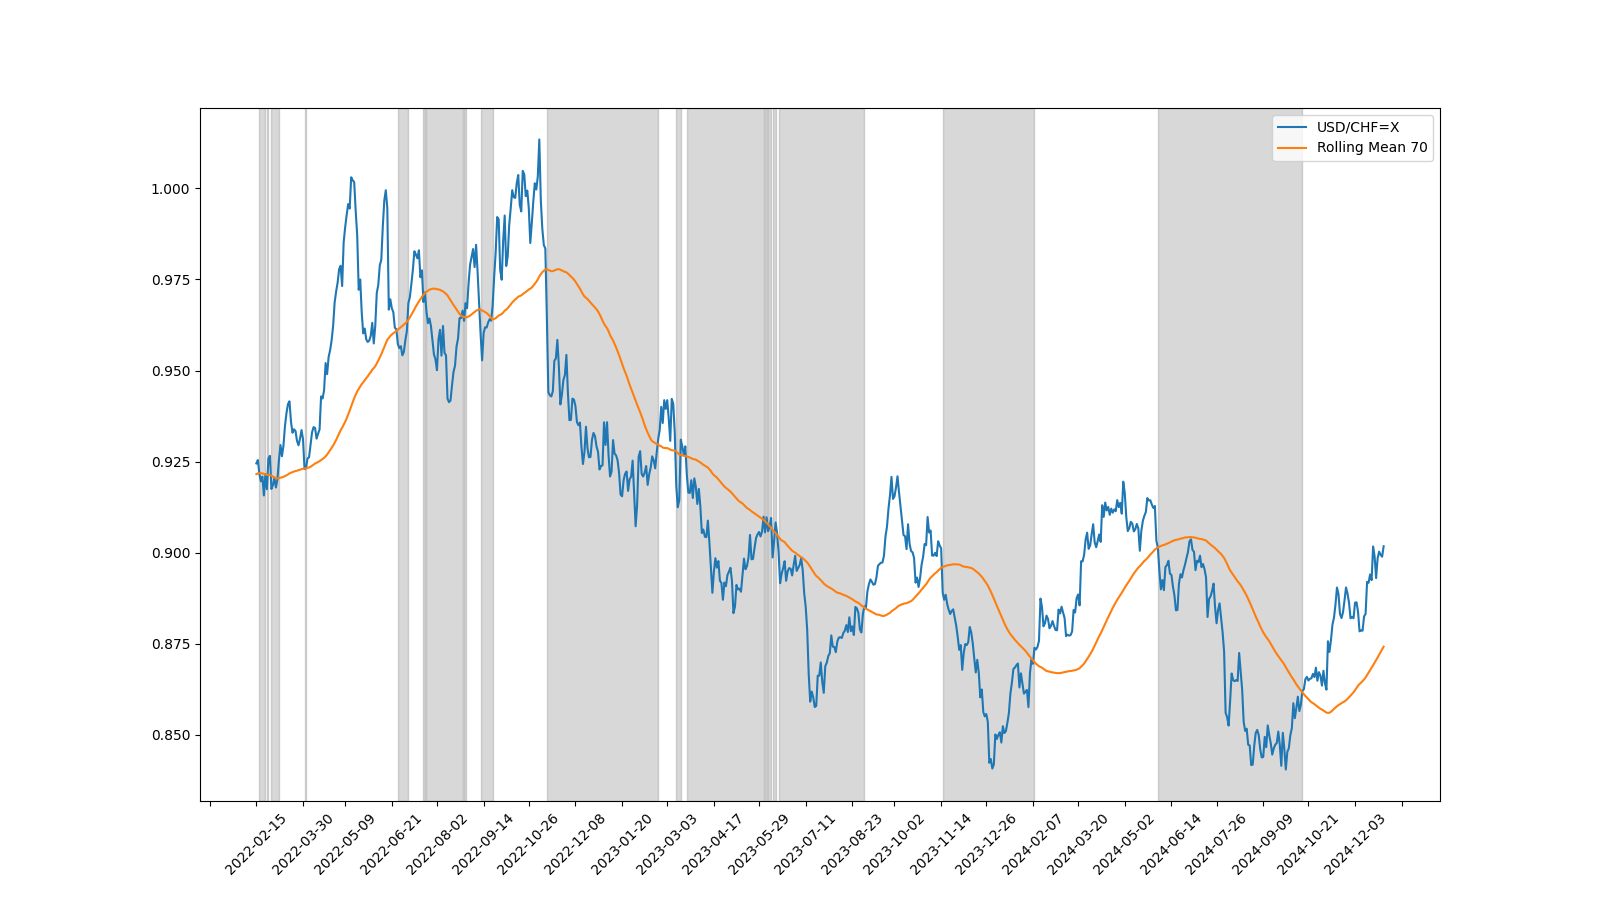
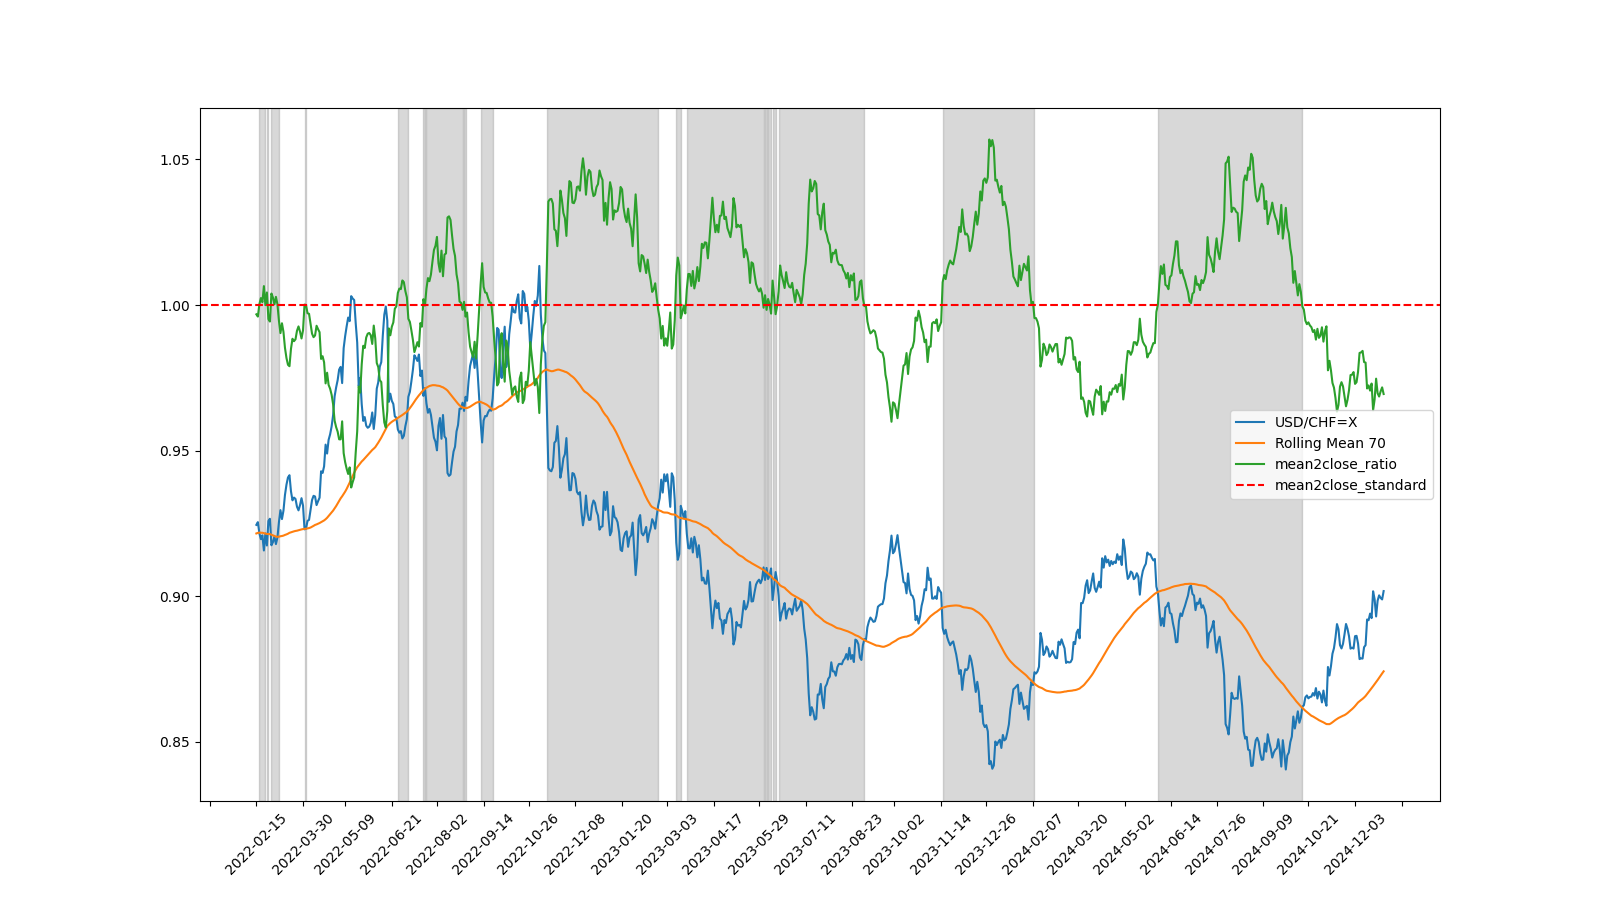
looks prettier LOL

diff --git a/basic_analysis.py b/basic_analysis.py
@@ -74,11 +74,15 @@ def exchange_viability(df):
 def analyze_exchange_rate(df, window_size=70):
     df["rolling_mean"] = df["Close"].rolling(window=window_size).mean()
     df = df[-750:]
-    df["good_period"] = df["rolling_mean"] > df["Close"]
+    df["good_period"] = np.where(df["rolling_mean"] > df["Close"], True, False)
+    df["mean2close_ratio"] = df["rolling_mean"] / df["Close"]
 
     plt.figure(figsize=(16, 9))
     plt.plot(df.index, df["Close"], label="USD/CHF=X")
     plt.plot(df.index, df["rolling_mean"], label=f"Rolling Mean {window_size}")
+    plt.plot(df.index, df["mean2close_ratio"], label="mean2close_ratio")
+    plt.axhline(y=1, color='red', linestyle='--', label='mean2close_standard')
+
 
     prev, start, end = False, None, None
     for index, info in df.iterrows():
@@ -110,8 +114,8 @@ def main():
         request_data_yfinance()
 
     df = pd.read_csv(target, index_col="Date")
-    exchange_viability(df)
-    # analyze_exchange_rate(df)
+    # exchange_viability(df)
+    analyze_exchange_rate(df)
 
 if __name__ == "__main__":
     main()
